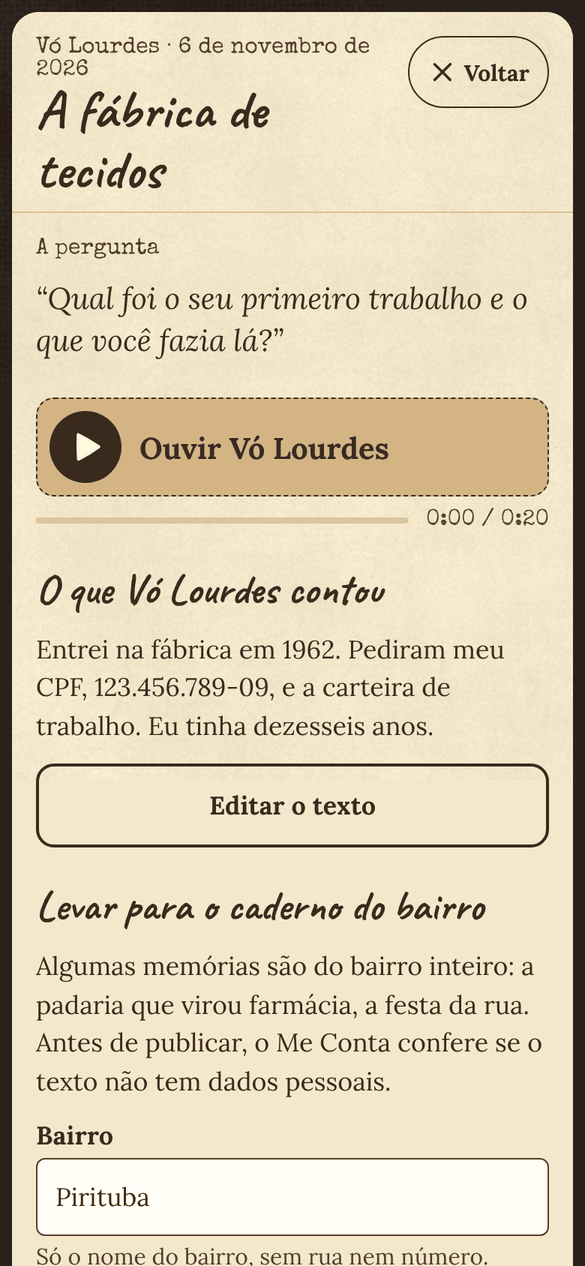
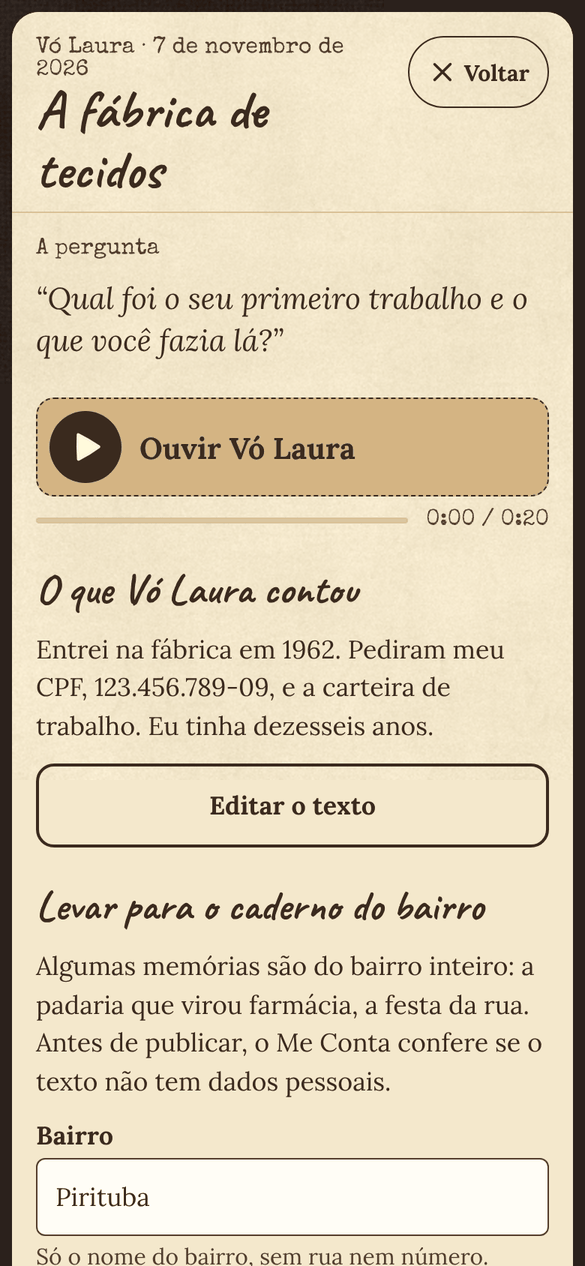
Demonstração com a Nicoli e a Vó Laura

diff --git a/src/services/api/apiMock.ts b/src/services/api/apiMock.ts
@@ -51,8 +51,8 @@ import { analisarTexto, explicarAnalise } from './motorDeDemonstracao';
  * API em C#, então o app funciona igual nos dois modos. O estado fica salvo
  * no SQLite (preferência `mock-servidor`) e sobrevive ao fechar o app.
  *
- * Todos os dados são fictícios: a Família Souza, a Bia, a Cláudia, a
- * Vó Lourdes e o Vô Antônio, os mesmos da demonstração da API.
+ * Família de demonstração: a Família Souza, com a Nicoli, a Cláudia, a
+ * Vó Laura e o Vô Antônio. Telefones, e-mails e histórias são fictícios.
  */
 
 type Participacao = { membroId: number; papel: PapelNaFamilia; entrouEm: string };
@@ -65,7 +65,7 @@ type MemoriaMock = MemoriaDoBairro & { paginaId: number | null; noMapa: boolean 
 type AvisoMock = Aviso & { familiaId: number };
 
 type EstadoMock = {
-  versao: 2;
+  versao: 3;
   proximoId: number;
   usuarios: UsuarioMock[];
   membros: Membro[];
@@ -114,11 +114,11 @@ function catalogo(id: number): Pergunta {
 }
 
 function estadoInicial(): EstadoMock {
-  const lourdes: Idoso = {
+  const laura: Idoso = {
     id: 1,
     familiaId: 1,
-    nome: 'Lourdes Souza',
-    apelido: 'Vó Lourdes',
+    nome: 'Laura Souza',
+    apelido: 'Vó Laura',
     // Número fictício, igual ao da demonstração da API.
     whatsApp: '5511900000001',
     respondeSozinho: true,
@@ -176,15 +176,15 @@ function estadoInicial(): EstadoMock {
   memorias.forEach((memoria, indice) => {
     const pergunta = catalogo(memoria.perguntaId);
     const envioId = indice + 1;
-    const mensagem = montarMensagem(lourdes.apelido, pergunta.texto);
+    const mensagem = montarMensagem(laura.apelido, pergunta.texto);
     envios.push({
       id: envioId,
-      idosoId: lourdes.id,
+      idosoId: laura.id,
       perguntaId: pergunta.id,
       pergunta: pergunta.texto,
       categoriaId: pergunta.categoriaId,
       mensagem,
-      linkWhatsApp: montarLinkWhatsApp(lourdes.whatsApp ?? '', mensagem),
+      linkWhatsApp: montarLinkWhatsApp(laura.whatsApp ?? '', mensagem),
       status: 'Respondida',
       enviadoEm: diasAtras(memoria.dias + 1, 12),
       respondidoEm: diasAtras(memoria.dias),
@@ -193,8 +193,8 @@ function estadoInicial(): EstadoMock {
     paginas.push({
       id: indice + 1,
       envioId,
-      idosoId: lourdes.id,
-      idosoApelido: lourdes.apelido,
+      idosoId: laura.id,
+      idosoApelido: laura.apelido,
       titulo: memoria.titulo,
       pergunta: pergunta.texto,
       categoriaId: pergunta.categoriaId,
@@ -212,15 +212,15 @@ function estadoInicial(): EstadoMock {
 
   // Uma pergunta enviada ontem, ainda esperando a resposta.
   const aguardando = catalogo(22);
-  const mensagem = montarMensagem(lourdes.apelido, aguardando.texto);
+  const mensagem = montarMensagem(laura.apelido, aguardando.texto);
   envios.push({
     id: proximoEnvio,
-    idosoId: lourdes.id,
+    idosoId: laura.id,
     perguntaId: aguardando.id,
     pergunta: aguardando.texto,
     categoriaId: aguardando.categoriaId,
     mensagem,
-    linkWhatsApp: montarLinkWhatsApp(lourdes.whatsApp ?? '', mensagem),
+    linkWhatsApp: montarLinkWhatsApp(laura.whatsApp ?? '', mensagem),
     status: 'Enviada',
     enviadoEm: diasAtras(1, 13),
     respondidoEm: null,
@@ -228,14 +228,14 @@ function estadoInicial(): EstadoMock {
   });
 
   return {
-    versao: 2,
+    versao: 3,
     proximoId: 100,
     usuarios: [
-      { email: 'bia@example.com', senha: SENHA_DEMONSTRACAO, membroId: 1 },
+      { email: 'nicoli@example.com', senha: SENHA_DEMONSTRACAO, membroId: 1 },
       { email: 'claudia@example.com', senha: SENHA_DEMONSTRACAO, membroId: 2 },
     ],
     membros: [
-      { id: 1, nome: 'Bia', criadoEm: diasAtras(40) },
+      { id: 1, nome: 'Nicoli', criadoEm: diasAtras(40) },
       { id: 2, nome: 'Cláudia', criadoEm: diasAtras(40) },
     ],
     familias: [
@@ -250,7 +250,7 @@ function estadoInicial(): EstadoMock {
       },
     ],
     convites: [{ codigo: 'CASA26', familiaId: 1, expiraEm: new Date(Date.now() + 48 * 3600 * 1000).toISOString() }],
-    idosos: [lourdes, antonio],
+    idosos: [laura, antonio],
     perguntasDaFamilia: [],
     envios,
     paginas,
@@ -281,13 +281,13 @@ function estadoInicial(): EstadoMock {
         publicadaEm: diasAtras(11),
       },
     ],
-    // A Vó Lourdes apertou "quero contar" no porta-retrato para a pergunta que está esperando.
+    // A Vó Laura apertou "quero contar" no porta-retrato para a pergunta que está esperando.
     avisos: [
       {
         id: 1,
         familiaId: 1,
-        idosoId: lourdes.id,
-        apelido: lourdes.apelido,
+        idosoId: laura.id,
+        apelido: laura.apelido,
         envioId: proximoEnvio,
         pergunta: aguardando.texto,
         criadoEm: diasAtras(0, Math.max(0, new Date().getUTCHours() - 1)),
@@ -295,7 +295,7 @@ function estadoInicial(): EstadoMock {
         vistoEm: null,
       },
     ],
-    portaRetratos: [{ id: 1, idosoId: lourdes.id, codigo: 'PR-LOURDES', conectado: true, ultimoContatoEm: new Date().toISOString() }],
+    portaRetratos: [{ id: 1, idosoId: laura.id, codigo: 'PR-LAURA', conectado: true, ultimoContatoEm: new Date().toISOString() }],
   };
 }
 
@@ -323,7 +323,7 @@ export class ApiMock implements ApiMeConta {
     if (salvo) {
       try {
         const lido = JSON.parse(salvo) as EstadoMock;
-        estado = lido.versao === 2 ? lido : null;
+        estado = lido.versao === 3 ? lido : null;
       } catch {
         estado = null;
       }

diff --git a/src/config/appConfig.ts b/src/config/appConfig.ts
@@ -27,8 +27,12 @@ export const API_URL: string | null =
 
 export const USANDO_MOCK = API_URL === null;
 
-/** Conta de demonstração, igual à que a API cria no primeiro uso. */
+/**
+ * Conta de demonstração. No modo sem API, é a Nicoli da Família Souza.
+ * Com a API, é a conta que a API cria no primeiro uso (`bia@example.com`).
+ */
 export const CONTA_DEMONSTRACAO = {
-  email: 'bia@example.com',
+  email: USANDO_MOCK ? 'nicoli@example.com' : 'bia@example.com',
   senha: 'MeConta@2026',
+  rotulo: USANDO_MOCK ? 'Entrar como Nicoli (demonstração)' : 'Entrar com a conta de demonstração',
 } as const;

diff --git a/src/app/entrar.tsx b/src/app/entrar.tsx
@@ -66,7 +66,7 @@ export default function EntrarScreen(): React.JSX.Element {
       <Botao label="Entrar" icone="proxima" isLoading={enviando} disabled={!email || !senha} onPress={() => void enviar()} />
       <Botao label="Criar uma conta" variante="contorno" onPress={() => router.push('/cadastro')} />
       <Botao
-        label="Entrar como Bia (demonstração)"
+        label={CONTA_DEMONSTRACAO.rotulo}
         variante="papel"
         accessibilityHint="Usa a conta de demonstração, com a Família Souza já montada"
         onPress={() => {

diff --git a/src/components/BoasVindas.tsx b/src/components/BoasVindas.tsx
@@ -38,7 +38,7 @@ export function BoasVindas(): React.JSX.Element {
   if (status === 'sem-perfil') {
     return (
       <CapaDeEntrada subtitulo="Falta só uma coisa antes de abrir o caderno.">
-        <Campo label="Como você quer ser chamada" value={nomePessoa} onChangeText={setNomePessoa} placeholder="Ex.: Bia" />
+        <Campo label="Como você quer ser chamada" value={nomePessoa} onChangeText={setNomePessoa} placeholder="Ex.: Nicoli" />
         {erro ? <Recado tipo="erro" texto={erro} /> : null}
         <Botao
           label="Continuar"

diff --git a/src/utils/regras.ts b/src/utils/regras.ts
@@ -112,7 +112,7 @@ export function validarPerguntaPropria(texto: string, categoriaId: number | null
   return limpo;
 }
 
-/** "Vó Lourdes, me conta: qual é o segredo do seu bolo?" */
+/** "Vó Laura, me conta: qual é o segredo do seu bolo?" */
 export function montarMensagem(apelido: string, pergunta: string): string {
   return `${apelido}, me conta: ${pergunta}`;
 }

diff --git a/src/components/Folha.tsx b/src/components/Folha.tsx
@@ -9,7 +9,7 @@ import { Papel } from './Papel';
 
 type FolhaProps = {
   titulo: string;
-  /** Linha pequena acima do título (ex.: "para Vó Lourdes"). */
+  /** Linha pequena acima do título (ex.: "para Vó Laura"). */
   sobretitulo?: string;
   children: ReactNode;
   textura?: 'papel' | 'kraft';

diff --git a/src/app/cadastro.tsx b/src/app/cadastro.tsx
@@ -54,7 +54,7 @@ export default function CadastroScreen(): React.JSX.Element {
           setNome(t);
         }}
         autoComplete="name"
-        placeholder="Ex.: Bia"
+        placeholder="Ex.: Nicoli"
       />
       <Campo
         label="E-mail"

diff --git a/README.md b/README.md
@@ -50,7 +50,7 @@ A jornada principal, do começo ao fim:
 1. **Entrar ou criar conta** com e-mail e senha. Depois, **escrever o nome da família na capa** do caderno, ou entrar no caderno de um parente com o **código de convite**.
 2. **Abrir o caderno.** A capa abre com uma animação, e as folhas viram com o dedo ou com as setas. As abas coloridas separam as memórias por assunto.
 3. **Perguntar.** A pergunta da semana aparece num bilhete. Dá para sortear outra, escolher por assunto ou escrever uma pergunta da família.
-4. **Enviar pelo WhatsApp.** O bilhete vira envelope e o WhatsApp abre com "Vó Lourdes, me conta: …" pronto para enviar.
+4. **Enviar pelo WhatsApp.** O bilhete vira envelope e o WhatsApp abre com "Vó Laura, me conta: …" pronto para enviar.
 5. **A página espera a resposta.** No caderno, aparece uma página em branco com a pergunta escrita no alto.
 6. **Guardar a resposta.** A família escolhe o áudio que a avó mandou, uma foto, o título e, se quiser, escreve o que ela contou. A página é colada no caderno.
 7. **Ouvir.** Cada página tem o botão "Ouvir", com a voz de quem contou.
@@ -133,9 +133,9 @@ Escaneie o QR code com o Expo Go, com o celular na mesma rede Wi-Fi do PC. Se a 
 
 ### Modo de demonstração (sem API)
 
-Sem configurar nada, o app usa os **dados de demonstração**. Na tela de entrada, toque em **"Entrar como Bia (demonstração)"**.
+Sem configurar nada, o app usa os **dados de demonstração**. Na tela de entrada, toque em **"Entrar como Nicoli (demonstração)"** (`nicoli@example.com` / `MeConta@2026`).
 
-A Família Souza, a Vó Lourdes e o Vô Antônio são **todos fictícios**, assim como os outros dados de demonstração. Esse modo segue as mesmas regras e mensagens da API e guarda tudo no SQLite do celular. O filtro de dados pessoais desse modo é uma versão reduzida do motor da API, com 6 tipos de dado em vez de 17 e sem a IA.
+A família de demonstração é a Família Souza: a Nicoli (neta), a Vó Laura e o Vô Antônio. Telefones, e-mails e histórias são **fictícios**. Esse modo segue as mesmas regras e mensagens da API e guarda tudo no SQLite do celular. O filtro de dados pessoais desse modo é uma versão reduzida do motor da API, com 6 tipos de dado em vez de 17 e sem a IA.
 
 ### Com a API
 
@@ -149,7 +149,7 @@ A Família Souza, a Vó Lourdes e o Vô Antônio são **todos fictícios**, assi
    EXPO_PUBLIC_API_URL=http://192.168.0.10:5080
    ```
 4. Libere a porta 5080 no Firewall do Windows, se o celular não conectar.
-5. Rode `npm run start:clean` de novo e entre com `bia@example.com` / `MeConta@2026`.
+5. Rode `npm run start:clean` de novo e toque em **"Entrar com a conta de demonstração"**: o app usa a conta que a API cria no primeiro uso (`bia@example.com` / `MeConta@2026`). Os nomes que aparecem nas telas vêm da API.
 
 Com a API ligada, a explicação de risco vem do Gemini (se a chave estiver configurada) e os avisos "quero contar" chegam do porta-retrato (Wokwi + Node-RED).
 
@@ -211,7 +211,7 @@ O app segue a **WCAG 2.1 nível AA** (US13 e RNF05):
 | Matéria | Como aparece no app |
 |---|---|
 | **C# e SOA** | Toda a comunicação usa as rotas `/api/v1` da API, com os mesmos nomes dos DTOs (`src/types/api.ts`). |
-| **IoT** | O porta-retrato chama `POST /porta-retrato/quero-contar`, e o app consulta `GET /familias/{id}/avisos` a cada 15 s e mostra o bilhete "Vó Lourdes quer contar!". Em "Nossa família", aparece se o porta-retrato está ligado. |
+| **IoT** | O porta-retrato chama `POST /porta-retrato/quero-contar`, e o app consulta `GET /familias/{id}/avisos` a cada 15 s e mostra o bilhete "Vó Laura quer contar!". Em "Nossa família", aparece se o porta-retrato está ligado. |
 | **Cybersecurity** | Antes de publicar no bairro, o app chama `POST /paginas/{id}/analise-privacidade` e `GET /paginas/{id}/explicacao-de-risco`. Mostra o índice Risco Cidadão, os trechos mascarados, o alerta da IA e a versão sem os dados (`PUT /paginas/{id}/transcricao`). |
 
 ---
@@ -248,7 +248,7 @@ me-conta-app/
 | | | |
 |---|---|---|
 | ![Entrar](docs/prints/01-entrar.png) | ![Capa do caderno](docs/prints/02-capa.png) | ![Aviso do porta-retrato](docs/prints/03-aviso-quero-contar.png) |
-| Entrar | Capa do caderno | "Vó Lourdes quer contar!" (porta-retrato) |
+| Entrar | Capa do caderno | "Vó Laura quer contar!" (porta-retrato) |
 | ![Página esperando](docs/prints/04-pagina-esperando.png) | ![Memória](docs/prints/05-memoria.png) | ![Perguntar](docs/prints/06-perguntar.png) |
 | Página esperando a resposta | Memória com áudio | Pergunta da semana |
 | ![Pergunta enviada](docs/prints/07-pergunta-enviada.png) | ![Guardar a resposta](docs/prints/08-guardar-resposta.png) | ![Página nova](docs/prints/09-pagina-nova.png) |
@@ -262,7 +262,7 @@ me-conta-app/
 | ![Ensine sua avó](docs/prints/19-ensine-sua-avo.png) | ![Ainda não](docs/prints/20-ainda-nao.png) | |
 | Ensine sua avó | "Ainda não": repetir o passo | |
 
-> Prints do modo de demonstração, na pré-visualização web em tamanho de celular. Todos os dados são fictícios.
+> Prints do modo de demonstração, na pré-visualização web em tamanho de celular. Telefones e histórias são fictícios.
 
 ---
 

diff --git a/prompts.md b/prompts.md
@@ -16,6 +16,6 @@ Registro do uso de IA (Claude, da Anthropic) no desenvolvimento do app mobile. T
 
 ## Cuidados
 
-- **Nenhum dado pessoal real:** a Família Souza, os telefones e as histórias são fictícios. O CPF da página de demonstração é um número de teste.
+- **Dados de demonstração:** a família usa só os primeiros nomes da neta (Nicoli) e da avó (Laura). Sobrenome, telefones, e-mails e histórias são fictícios. O CPF da página de demonstração é um número de teste.
 - **Sem imagens de terceiros:** as texturas, os ícones, as ilustrações e a melodia de demonstração foram gerados para o projeto.
 - **A IA do app (Gemini) fica na API:** o app nunca fala direto com o Gemini. Ele só mostra a explicação que a API devolve, e a API só manda para a IA o texto já mascarado.
